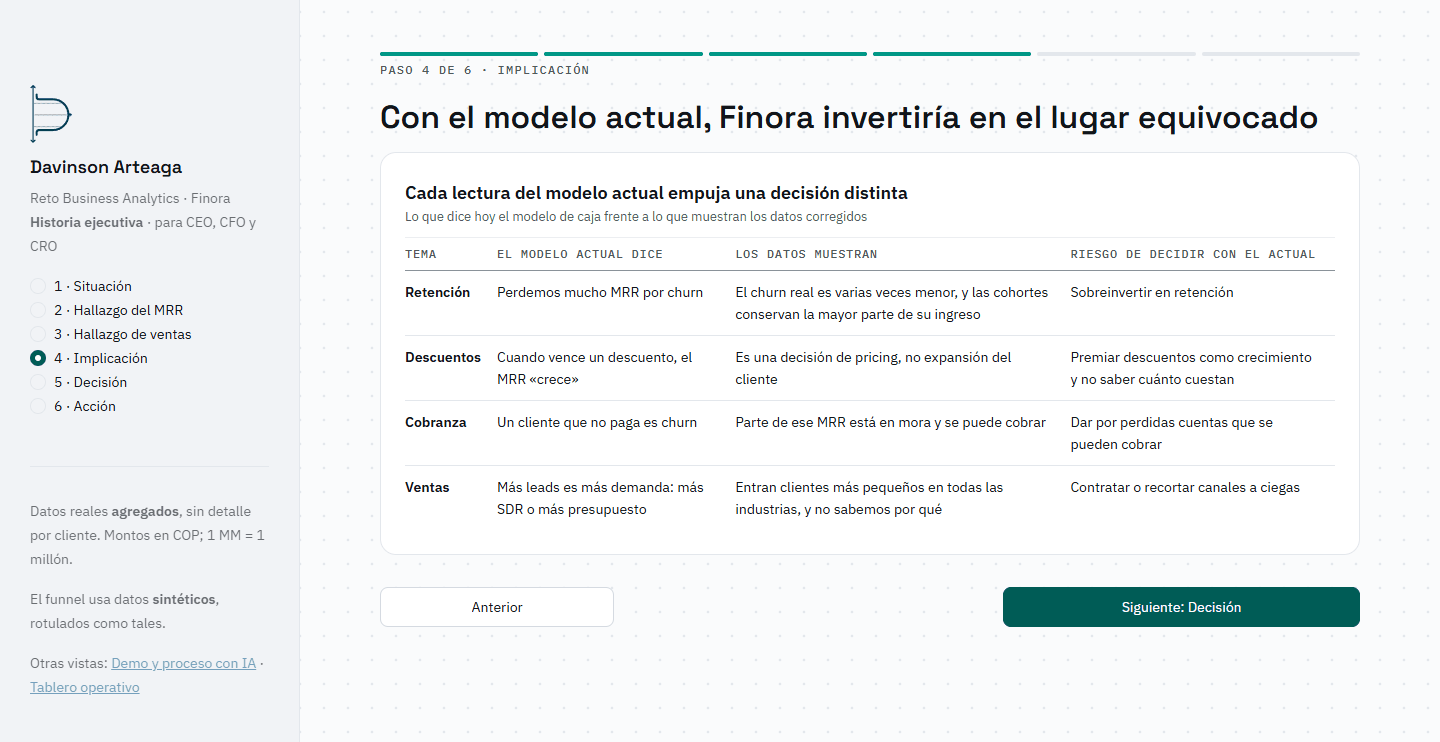
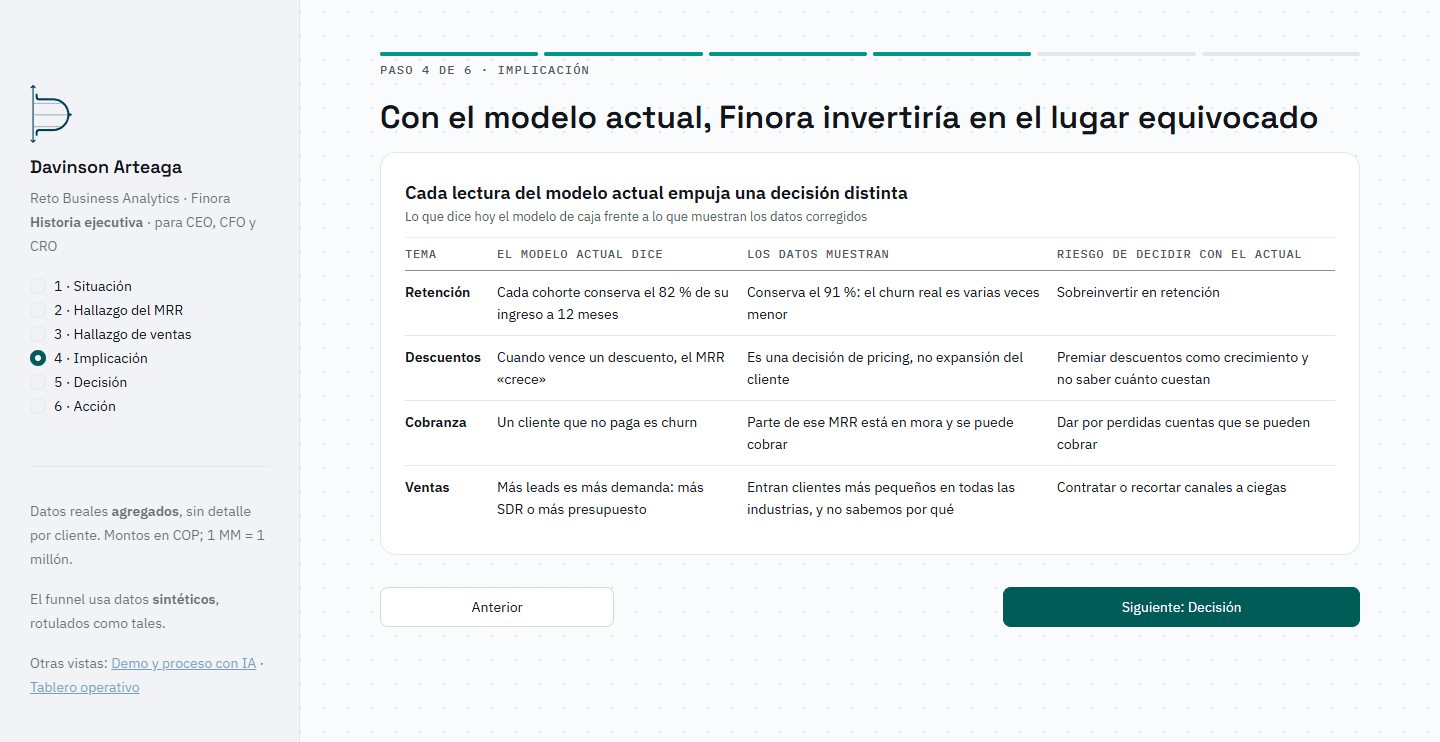
Historia: respuesta al CFO visible en el paso 2 y cifra de retención en la implicación

diff --git a/app/historia.py b/app/historia.py
@@ -41,6 +41,7 @@ st.markdown(f"""<style>
 .hs-steps span.on {{ background:{T.viz[0]}; }}
 .hs-note {{ font:400 15px/24px var(--font-sans); color:var(--ink-muted); max-width:78ch; margin:0 0 8px; }}
 .hs-note b {{ color:var(--ink); }}
+.hs-lead {{ font:400 17px/26px var(--font-sans); color:var(--ink); margin:-4px 0 14px; max-width:none; }}
 .hs-rules {{ display:grid; grid-template-columns:1fr 1fr; gap:6px 40px; margin:8px 0 6px; }}
 .hs-rules div {{ font:400 15px/22px var(--font-sans); color:var(--ink); }}
 .hs-rules-foot {{ font:400 14px/21px var(--font-sans) !important; color:var(--ink-muted); margin:6px 0 0 !important; }}
@@ -130,6 +131,9 @@ if i == 0:
 # =====================================================================================
 elif i == 1:
     st.title(f"El modelo de caja exagera el churn {F_['x_churn']} veces")
+    st.markdown(f'<div class="hs-lead"><b>Respuesta al CFO:</b> de {F_["cambio_neto"]} MM de crecimiento, '
+                f'{F_["cliente"]} MM es comportamiento del cliente y {F_["cor_price"]} MM son subidas de precio; los '
+                'descuentos no se pueden medir con caja.</div>', unsafe_allow_html=True)
     fig = go.Figure()
     labels = [MOVE_LABELS[m] for m in MOVES]
     for key, tot in ((COR, tc), (ACT, ta)):
@@ -139,7 +143,7 @@ elif i == 1:
     fig.update_xaxes(showgrid=True, gridcolor=T.line, ticksuffix=" MM")
     B.chart_frame("h_bridge", "",
                   f"El total cuadra, el porqué no: churn {F_['cor_churn']} MM real contra {F_['act_churn']} MM en caja",
-                  "Movimientos de MRR acumulados por tipo · millones de COP · abr-2022 a oct-2024", fig, None, SRC_TX, 300)
+                  "Movimientos de MRR acumulados por tipo · millones de COP · abr-2022 a oct-2024", fig, None, SRC_TX, 220)
     demo = f'<a href="{C.LINKS["demo"]}?s=5">la demo</a>' if C.LINKS["demo"] else "la demo"
     st.markdown(
         '<div class="da-callout da-callout-info"><p><b>Cómo lo corrige el modelo</b></p><div class="hs-rules">'
@@ -175,8 +179,9 @@ elif i == 3:
     st.title("Con el modelo actual, Finora invertiría en el lugar equivocado")
     B.text_frame("h_impl", "", "Cada lectura del modelo actual empuja una decisión distinta",
                  "Lo que dice hoy el modelo de caja frente a lo que muestran los datos corregidos", pd.DataFrame([
-                     ("Retención", "Perdemos mucho MRR por churn", "El churn real es varias veces menor, y las "
-                      "cohortes conservan la mayor parte de su ingreso", "Sobreinvertir en retención"),
+                     ("Retención", f"Cada cohorte conserva el {F_['nrr_act_2023']} % de su ingreso a 12 meses",
+                      f"Conserva el {F_['nrr_cor_2023']} %: el churn real es varias veces menor",
+                      "Sobreinvertir en retención"),
                      ("Descuentos", "Cuando vence un descuento, el MRR «crece»",
                       "Es una decisión de pricing, no expansión del cliente",
                       "Premiar descuentos como crecimiento y no saber cuánto cuestan"),

diff --git a/tests/test_app.py b/tests/test_app.py
@@ -86,8 +86,11 @@ def test_las_cifras_de_la_nota_aparecen_igual_en_las_apps():
     checks = {
         ("historia", 0): [f"{f['crec_mrr']} %", f"De {f['mrr_ini']} a {f['mrr_fin']} MM", f"({f['sm_vs_mrr']} veces)"],
         ("historia", 1): [f"exagera el churn {f['x_churn']} veces", f"churn {f['cor_churn']} MM real contra {f['act_churn']} MM",
-                          f"entre {f['sens_xchurn_min']} y {f['sens_xchurn_max']} veces"],
+                          f"entre {f['sens_xchurn_min']} y {f['sens_xchurn_max']} veces",
+                          f"de {f['cambio_neto']} MM de crecimiento, {f['cliente']} MM es comportamiento del cliente y "
+                          f"{f['cor_price']} MM son subidas de precio"],
         ("historia", 2): [f"entran {f['caida_m3']} % más pequeños"],
+        ("historia", 3): [f"conserva el {f['nrr_act_2023']} % de su ingreso", f"Conserva el {f['nrr_cor_2023']} %"],
         ("demo", 1): [f"{f['cor_churn']} MM", f"{f['cliente']} MM", f"{f['cor_price']} MM", f"{f['half_techo']} MM",
                       f"retienen {f['nrr_cor_2023']} % de su MRR a 12 meses, no {f['nrr_act_2023']} %"],
         ("tablero", 0): [f"{f['mrr_fin']} MM", f"{f['mora_abierta']} MM de MRR está en mora",
